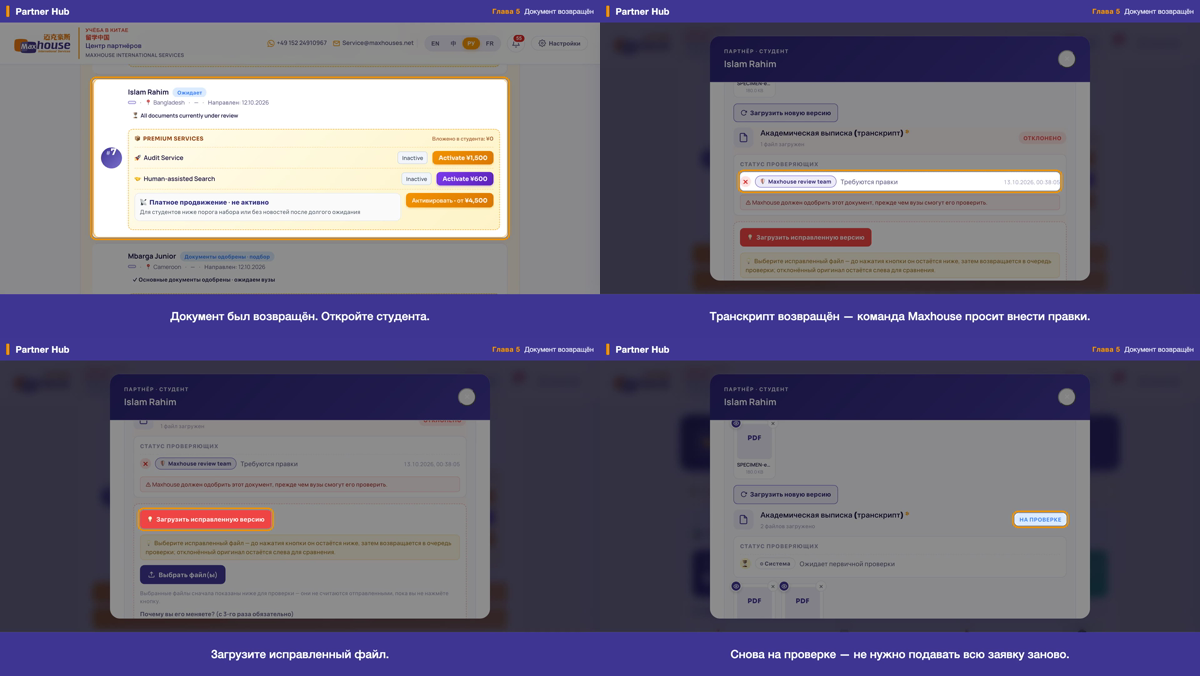
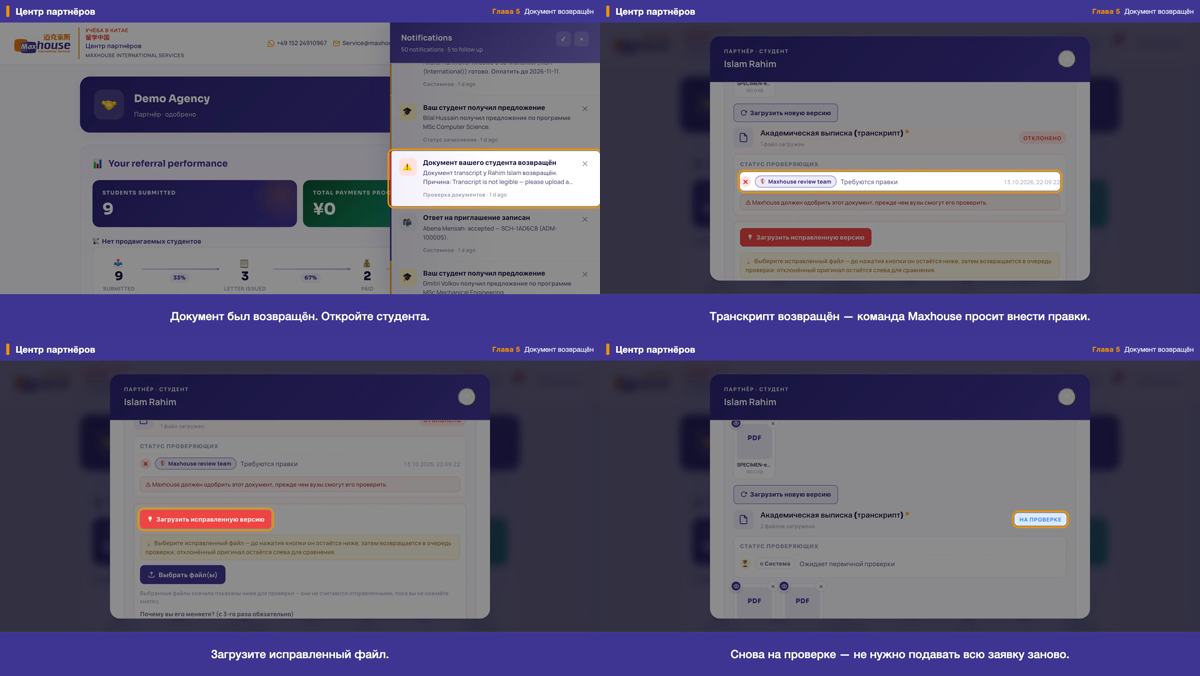
JOB-GP1 trip42: ch5 材料退回章四语横竖 v185 两态定版重录 — §三.2(a) 5-1 改从通知铃取镜(字幕不改·铃内退回通知标题四语本地化)+§三.7 去提额横幅+§一 ¥0+§三.9 俄法章节条。verify 开工收工均 17/17 PASS。四语 ch5 联络表更新(land+port)+PROGRESS+决定账(D-42-1)。⚠§十 留底疏漏已补救并记账(_v1 首版完好+第二版 full/trailer 复制 _v2)。下趟=ch6 v185 定版重录。

diff --git a/JOB-GP1-03-PROGRESS.md b/JOB-GP1-03-PROGRESS.md
@@ -1,4 +1,8 @@
-最后一趟：2026-10-13 22:00 第41趟 第三轮返工（RULING-20261013b-video-only）：**做了＝第〇节代码核验（partner-portal 与线上一致·无 v186·diff 空·index 指 v185）+ ch4 具名邀请章四语横竖 v185 定版重录，销 §一 负数金额**。ch4＝委托学生自传章（state 章 pt-04）；review1/review2 未标 ch4 字幕缺陷→字幕/高亮一字未改，纯按 §三.10「十章全部 v185 重录·不沿用旧录像」重录——第二版 trip36 对 ch4「照原版入拼」沿用 v184 旧录像，英文 4-4/4-5 委托卡「Invested ¥-3,000」负数即此漏。每变体录前 st-pt04-docs-full 置态（pt-04 delegate+必传材料 4/4+清 submitted_at）、rec v185（4-5 真 submit）、录后 st-pt04-reset-cleanup scoped 复位（清 intake_mode/submitted_at+删预置 transcript，不动 app_no=MH-EXET28，不跑 rebuild）。prod-ch 合成 8 片覆盖 dist→gp1-finish contact 四语联络表。**§一（核心）**：v185 重录后四语 4-4/4-5 页面「Invested/该学生已投入/Вложено/Investi ¥0」**无负数**（亲帧 EN f00215+f00298·ZH f00215·RU f00214·FR f00212）。**§三.7 N/A**：ch4 全 5 镜在工作台列表中段、不露 hero 顶部→无提额横幅（亲帧 EN 4-1 f00025），不需 quota-off。**§三.9**：俄法章节条 Центр партнёров/Espace partenaires（trip38 overlay 继承，联络表实帧亲验）。开工+收工 verify 均 **17/17 PASS 0 FAIL**。亲帧复验四语 land 4-1/4-4(+en 4-5)：委托卡环框、¥0 无负数、Submit 绿钮 4/4、无 beta/placeholder/test、双盲守住、no @gmail（演示邮箱 aizhan.demo@/agency.demo@example.com）、页头平台 WhatsApp/Email 不遮（D-14-3/D-15-1）、俄法委托卡英文回退 D-18-4 照录。时长 land en42.87/zh42.96/ru43.12/fr42.85·port en42.58/zh42.86/ru42.86/fr42.78s。第二版 ch4 成片留底 ~/guide/dist/partner/_v2/、dist 覆盖第三轮版。**下趟＝ch5（材料退回章·state 章 pt-03 两态；§三.2 5-1 字幕/取镜改对齐画面+§三.8 俄法引用按钮名+§一 ¥0+§三.7 露 hero 去横幅）**。GP-1 第三轮返工未收官。
+最后一趟：2026-10-13 23:55 第42趟 第三轮返工（RULING-20261013b-video-only）：**做了＝第〇节代码核验（partner-portal 与线上一致·无 v186·diff 空·index 指 v185）+ ch5 材料退回章（state 章 pt-03 两态）四语横竖 v185 定版重录，落 review2 §三.2(a)+§三.7+§一+§三.9**。**§三.2(a)（核心）**：旧 5-1 字幕「A document was returned」高亮的却是**列表卡**（显「awaiting platform review / All documents under review」，卡上不写退回）——对不上。侦查实证通知铃内有 urgent 退回通知、标题四语**真本地化**（你的学生有材料被退回 / Your student had a document returned / Документ вашего студента возвращён / Document de votre étudiant renvoyé）→ §三.2(a) 成立。故 5-1 改**从通知铃起、框住这条退回通知**，开学生交 5-2（其 pre 先关铃）；**字幕一字未改、不重配音**（铃标题与字幕同义）。录制层给产品漏挂类的滚动容器 `#stuNotifList` 补**产品自带** `.stu-notif-list` 类启用其本设计的滚动（产品面板滚动 bug 已记入 SUMMARY），+ preOff 把开铃/定位放镜外（§四.2 高亮占比 ~88%）。**§三.7**：land 5-1 露 hero→录前 st-ch8-quota-off 去「Quota raise pending 10→30」横幅、录后 restore（verify#13 回 pending）。**§一**：工作台 ¥0 无负数。**§三.8 N/A**：ch5 字幕无引号引用按钮名。**§三.9**：ru「Центр партнёров」/fr「Espace partenaires」（trip38 overlay 继承，成片帧亲验）。两态沿用 D-33-1（退回基线录 5-1/5-2/5-3 + st-pt03-reupload 录 5-4 真·审核中态，prod-ch --tags 拼 4 镜一章；5-4 徽章四语真本地化 REVIEWING/审核中/НА ПРОВЕРКЕ/EN EXAMEN，非伪造）。开工+收工 verify 均 **17/17 PASS 0 FAIL**。亲帧复验四语 land 5-1(铃+退回通知高亮·无横幅·¥0·STUDENTS 9)/5-4(审核中徽章)+en-port 5-1(全宽面板)：无 beta/placeholder/test/负数、双盲守住、no @gmail（MASK_INIT 遮）、页头平台 WhatsApp/Service@maxhouses.net 不遮（D-14-3/D-15-1）、俄法动态串 EN 回退 D-18-4 照录。时长 land en32.47/zh32.35/ru32.44/fr32.39·port en32.49/zh32.36/ru32.33/fr32.46s。**⚠§十 留底疏漏如实记账**：prod-ch 直写 dist，覆写前未单独 cp 第二版 ch5 章片到 _v2（6 片发现前已覆写）；补救＝_v1 首版 ch5 完好可回滚 + 第二版 ch5 内容仍存于当前 dist 第二版 full/trailer（trip36，本趟未重拼），已把 16 片 full/trailer 复制到 _v2 留底。**下趟＝ch6（§二 trip21 已执行完，本趟后按 §三.10 v185 定版重录四语横竖，复核 §一/§三.9）**。GP-1 第三轮返工未收官。
+
+> 【存档·第42趟 详节】开工 verify 17/17 PASS（#10 pt-03 rejected + #13 quota pending 基线在）。工具＝rec/_runch5.sh（每变体 quota-off→passA(5-1,5-2,5-3)→st-pt03-reupload→passB(5-4 --tagsuffix b)→reset→quota-restore 自成闭环）+ rec/_prodch5.sh（--tags 两态拼章）+ 侦查 _probe-ch5-bell/_probe-ch5-notif-langs + §四.5 _scan-ch5-forbidden（四语 beta/test/负数 0 命中）。改了(主仓库点名 JOB-GP1 不推)：rec/shots-v1.json(5-1 改铃取镜+preOff、5-2 pre 前置关铃)、REVIEW-{en,zh,ru,fr}-shots.md(追 ch5 第三轮节)、DECISIONS.md(D-42-1)、新增 5 脚本。captions-v1.json/产品码/迁移未改。四语 ch5 联络表 + 4 REVIEW-shots + 决定账 + PROGRESS 推 mh-jobs。详见 D-42-1。
+
+> 【存档·第41趟】最后一趟：2026-10-13 22:00 第41趟 第三轮返工（RULING-20261013b-video-only）：**做了＝第〇节代码核验（partner-portal 与线上一致·无 v186·diff 空·index 指 v185）+ ch4 具名邀请章四语横竖 v185 定版重录，销 §一 负数金额**。ch4＝委托学生自传章（state 章 pt-04）；review1/review2 未标 ch4 字幕缺陷→字幕/高亮一字未改，纯按 §三.10「十章全部 v185 重录·不沿用旧录像」重录——第二版 trip36 对 ch4「照原版入拼」沿用 v184 旧录像，英文 4-4/4-5 委托卡「Invested ¥-3,000」负数即此漏。每变体录前 st-pt04-docs-full 置态（pt-04 delegate+必传材料 4/4+清 submitted_at）、rec v185（4-5 真 submit）、录后 st-pt04-reset-cleanup scoped 复位（清 intake_mode/submitted_at+删预置 transcript，不动 app_no=MH-EXET28，不跑 rebuild）。prod-ch 合成 8 片覆盖 dist→gp1-finish contact 四语联络表。**§一（核心）**：v185 重录后四语 4-4/4-5 页面「Invested/该学生已投入/Вложено/Investi ¥0」**无负数**（亲帧 EN f00215+f00298·ZH f00215·RU f00214·FR f00212）。**§三.7 N/A**：ch4 全 5 镜在工作台列表中段、不露 hero 顶部→无提额横幅（亲帧 EN 4-1 f00025），不需 quota-off。**§三.9**：俄法章节条 Центр партнёров/Espace partenaires（trip38 overlay 继承，联络表实帧亲验）。开工+收工 verify 均 **17/17 PASS 0 FAIL**。亲帧复验四语 land 4-1/4-4(+en 4-5)：委托卡环框、¥0 无负数、Submit 绿钮 4/4、无 beta/placeholder/test、双盲守住、no @gmail（演示邮箱 aizhan.demo@/agency.demo@example.com）、页头平台 WhatsApp/Email 不遮（D-14-3/D-15-1）、俄法委托卡英文回退 D-18-4 照录。时长 land en42.87/zh42.96/ru43.12/fr42.85·port en42.58/zh42.86/ru42.86/fr42.78s。第二版 ch4 成片留底 ~/guide/dist/partner/_v2/、dist 覆盖第三轮版。**下趟＝ch5（材料退回章·state 章 pt-03 两态；§三.2 5-1 字幕/取镜改对齐画面+§三.8 俄法引用按钮名+§一 ¥0+§三.7 露 hero 去横幅）**。GP-1 第三轮返工未收官。
 > 【存档·第40趟】最后一趟：2026-10-13 第40趟 第三轮返工（RULING-20261013b-video-only）：**做了＝第〇节代码核验（partner-portal 与线上一致·无 v186·diff 空）+ ch3 四语横竖 v185 定版重录，落 review2 三处镜级缺陷**。§三.3：3-3 加 preOff→录制从「第二步·档案」起录，四语横竖整段停在出生日期/护照号字段并高亮（照英文样子，取代 v2 停在表单底的旧态）。§三.4：3-9 的 pre 在 loadMyReferrals 后轮询找名字含 Aisha 的卡打 data-mh39 标、hl 改 [data-mh39]→橙环框刚提交的 #10 Demo Aisha 整卡（取代旧 hl 框错的 #9 Serikova）。§三.8：主审 grep 实证 v185 外挂 i18n 包真值（ru=Направить нового студента / fr=Soumettre un nouveau référencement），改 captions 俄法 3-1 对齐按钮逐字（§四.4）、重 TTS。§三.7：录前 st-ch8-quota-off/录后 restore 去提额横幅。§一：3-9 Invested ¥0 无负数。state 章：每片 st-ch3-cleanup 起录+录后 st-ch3-mark-test+cleanup（scoped 单删 guide-pt-ch3+还原 pt-01 基线草稿，不跑 rebuild）。开工+收工 verify 均 **17/17 PASS 0 FAIL**。亲帧逐帧复验四语 land 3-1/3-3/3-9+ru-port 3-9+zh-port 3-3：按钮名逐字对、档案字段高亮、Demo Aisha #10 唯一框住、¥0 无负数、无 beta/test、双盲守住、no @gmail、页头平台联系方式不遮（D-14-3/D-15-1）、俄法英文回退 D-18-4 照录。时长 land en58.62/zh59.92/ru59.96/fr58.99·port en58.61/zh59.83/ru59.97/fr58.95s。第二版 ch3 成片留底 _v2/、dist 覆盖第三轮版。**下趟＝ch4（§三.10 v185 重录，亲验 §一 金额无负数——v2 对 ch4「照原版入拼」致英文 4-4/4-5「Invested ¥-3,000」负数）**。GP-1 第三轮返工未收官。
 > 【存档·第39趟】最后一趟：2026-10-13 第39趟 第三轮返工（RULING-20261013b-video-only）：**做了＝第〇节代码核验（partner-portal 与线上一致·无 v186·diff 空）+ ch1 §三.10 定版重录 + §三.7 去横幅 + §三.9 俄法章节条**。ch1 四语横竖 8 片用 v185 重录（不沿用旧录像）；1-8 露工作台顶部→录前 st-ch8-quota-off/录后 restore 去掉「Quota raise pending 10→30」横幅；俄法章节条左标签继承 trip38 已改 overlay（Центр партнёров/Espace partenaires）。ch1 字幕无缺陷纯重录（字幕/shots/captions/产品码一字未改）。开工+收工 verify 均 **17/17 PASS 0 FAIL**。亲眼逐帧：EN land 1-8 f00402+EN port 1-8 f00438（hero 橙框·¥0 无负数·无横幅·STUDENTS 9）+RU/FR land 章节条裁帧（Центр партнёров/Espace partenaires）；无 beta/test、双盲守住、no @gmail、页头平台联系方式不遮（D-14-3/D-15-1）、俄法 hero LL 英文回退 D-18-4 照录。第二版 ch1 成片留底 _v2/、dist 覆盖第三轮版。**下趟＝ch3（§三.3 ch3-3 中俄法档案字段高亮+§三.4 ch3-9 滚到 Demo Aisha 卡+§三.8 俄法 3-1 引用按钮名+§一 工作台；state 章需 st-ch3-cleanup/mark-test）**。GP-1 第三轮返工未收官。
 > 【存档·第38趟】最后一趟：2026-10-13 第38趟 第三轮返工（RULING-20261013b-video-only）：**做了＝第〇节放回代码核验（partner-portal 与线上一致·无 v186·diff 空）+ ch2 §三.1 重做**。2-3 高亮改框第一张学生卡整卡（原框计数药丸）；2-4 改为依次框 5 张不同真实阶段的卡状态行（nth1/4/5/6/8＝审核中/已通过匹配/新offer/已发通知书/录取完成·rec.mjs 新增 hlseq 多段高亮）+四语字幕重写重配音；§三.7 录前 st-ch8-quota-off/录后 restore 去掉工作台顶部提额横幅；§三.9 俄法章节条左标签改 Центр партнёров/Espace partenaires。四语横竖 8 片 v185 重录+重拼，开工+收工 verify 均 **17/17 PASS 0 FAIL**。亲眼逐帧复验 EN seg1-5/2-1/2-3+ZH seg3+RU/FR seg5：环框正确、无提额横幅、¥0 无负数、各 ¥ 正数、无 beta/test、双盲守住、no @gmail。第二版成片留底 _v2/、dist 覆盖第三轮版。**下趟＝ch1（§三.10 十章全部重录：四语横竖 v185 定版重录+§三.7 去横幅+§三.9 俄法章节条；ch1 字幕无缺陷纯重录）**。GP-1 第三轮返工未收官。

diff --git a/JOB-GP1-decisions.md b/JOB-GP1-decisions.md
@@ -726,3 +726,22 @@
 - **非四种停下情形**：全在成片/录制工装 + §0.3/§0.4 范围，不碰端口码/不越界/不碰 R2·CF·主仓库推送。
 - **改了**（主仓库，点名 JOB-GP1，不推）：`REVIEW-{en,zh,ru,fr}-shots.md`（追加 ch4 §三.10+§一 第三轮节）、`DECISIONS.md`、新增驱动脚本 `rec/_runch4.sh`/`rec/_prodch4.sh`。无 shots/captions/产品码/迁移改动（ch4 字幕无缺陷纯重录，§三.9 用 trip38 既有 overlay）。成片/voice 不入 git；ch4 第二版成片已留底 `~/guide/dist/partner/_v2/ch4-*.mp4`（8 片，同一文件只留一次），dist 覆盖为第三轮版（不入 git）。四语 ch4 联络表 + 4 REVIEW-shots + 决定账 + PROGRESS 推 mh-jobs。
 - **下趟**（§五 顺序）：ch5（材料退回章·state 章 pt-03 两态：退回基线录 5-1/5-2/5-3 + st-pt03-reupload 录 5-4 审核中态；§三.2 要求 5-1 字幕/取镜改——字幕「A document was returned. Open the student.」与画面「Submitted·awaiting platform review / All documents currently under review」对不上，按 §三.2 (a)通知铃有退回通知则从铃开始框并点开 / (b)否则字幕最小改成画面能证实的说法，退回由 5-2 REJECTED·Modification requested 承接——四语同步重配音；并 §三.8 俄法引用按钮名、§一 工作台 ¥0、§三.7 露 hero 的镜去横幅）。**GP-1 第三轮返工未收官**，后续 ch6→ch7(§三.5 7-4/§三.6)→ch8→ch9→ch10 逐章 v185 重录，再 OP 重做+重拼+十一项重审→才重写 SUMMARY-GP1。
+
+## D-42-1（返工第42趟 2026-10-13）· ch5 材料退回章（两态·pt-03）v185 四语横竖定版重录 · RULING-20261013b §三.2(a)+§三.7+§一+§三.9+§三.10
+- **第〇节代码核验**：`git diff origin/main --stat -- partner-portal` 空、partner-portal 下无未跟踪文件、无 v186、index 指向 v185 → 无需还原，本轮不改五端口代码。
+- **本趟＝ch5**（材料退回章，state 章，学生 guide-pt-03 = Islam Rahim）。两态机制沿用 D-33-1：退回基线录 5-1/5-2/5-3，apply `st-pt03-reupload` 录 5-4（审核中态，--tagsuffix b），`prod-ch --tags` 拼 4 镜一章。驱动 `rec/_runch5.sh`（每变体自成闭环）+ `rec/_prodch5.sh`。
+- **§三.2(a)（5-1 字幕/取镜改——本趟核心）**：review2 指出旧 5-1 字幕「A document was returned. Open the student.」与高亮的**列表卡**（显「Submitted · awaiting platform review」「⏳ All documents currently under review」，卡上不写退回）对不上。侦查（`_probe-ch5-bell.mjs`/`_probe-ch5-notif-langs.mjs`）实证：**通知铃内有一条 urgent 通知**，标题四语**真本地化**（en「Your student had a document returned」/ zh「你的学生有材料被退回」/ ru「Документ вашего студента возвращён」/ fr「Document de votre étudiant renvoyé」），desc「The transcript of Rahim Islam was returned. Reason: …」（理由 EN 回退＝D-18-4）→ **§三.2(a) 成立**（铃里确有这名学生的退回通知）。故 5-1 改为**从通知铃起、框住这条退回通知**（字幕一字不改、不重配音——铃内本地化标题与字幕同义「有材料被退回」），开学生详情交紧接的 5-2（其 pre 先 closeStuNotifPanel 再 viewReferredStudent）。改 `shots-v1.json` 的 5-1（pre/hl/waitFor/preOff）+ 5-2（pre 前置关铃）；capEN/capZH、captions-v1.json 文本**未改**。
+  - **录制层最小兜底（非改产品码·照 HIDE_INIT 先例）**：实测产品通知面板滚动容器 `#stuNotifList` **漏挂产品自带 CSS 类 `.stu-notif-list`**（该类定义了 `overflow-y:auto`），致面板不能滚动、第 9 条之后的通知（含本条 urgent 退回通知，位列约第 12）真实用户也看不到——产品 bug。5-1 的 pre 在**录制层**给 `#stuNotifList` 补挂产品自带的 `.stu-notif-list` 类（启用产品本就设计的滚动）并把这条真·通知滚到面板中央高亮。只补产品自带类、不改产品文件、不伪造/不隐藏任何真信息，与 HIDE_INIT 遮 beta 同性质。**此产品滚动 bug 写进 SUMMARY「留给业主的产品问题」**。
+  - **§四.2 节奏**：5-1 用 `preOff`（开铃+补类+定位滚动放镜外，不计入字幕窗，照 trip30 §三.8 preOff 先例）→ 镜内全程高亮通知，字幕窗 ~5.4s、高亮可见占比 ~88%（≥70%）。
+- **§三.7（提额横幅）**：land 的 5-1 露工作台顶部（铃面板右侧，hero 在左仍可见）。实证（`st-ch8-quota-off` 前）工作台顶 amber「Quota raise pending 10→30」横幅在 5-1 视口内 → 录前 `st-ch8-quota-off`（quota_requests 单列 pending→approved·decided_at NULL→产品清横幅）、录后 `st-ch8-quota-restore` 还原 pending。亲帧四语 land 5-1：header 与 hero 间无横幅。port 的 5-1 面板全宽、不露 hero，横幅本不可见；仍一并置态/复位无副作用。收工 verify #13 回 pending。
+- **§一（¥0 无负数）**：v185 重录后四语 land 5-1 工作台「TOTAL PAYMENTS PROCESSED / 累计处理付款金额 / ¥0」无负数（缺陷1 销账，亲帧 en/zh/ru/fr land 5-1）。
+- **§三.8（俄法引用按钮名）N/A**：ch5 四语字幕（5-1..5-4）均不含引号引用的按钮/标签名（§四.4 逐镜核零命中）→ 无需对齐改字幕。
+- **§三.9（俄法章节条）**：ru「Центр партнёров」/ fr「Espace partenaires」（trip38 已改 gp1-overlays.mjs，本趟重烧继承，ru/fr land 5-1 成片帧亲验章节条左标签已本地化）。zh「合作伙伴中心」/ en「Partner Hub」不在范围。
+- **§三.10（定版重录）**：ch5 整章四语横竖 8 变体用 v185 重录（两态·不沿用旧录像），prod-ch 合成 8 片覆盖 dist。5-4 审核中态靠产品自身 0104 supersede 真态化（非伪造），四语徽章真本地化：REVIEWING / 审核中 / НА ПРОВЕРКЕ / EN EXAMEN，矩阵「Awaiting initial review / 等待初步审核 / Ожидает первичной проверки / En attente de la première vérification」（亲帧 en/ru/fr land 5-4）。
+- **§四.5 整镜扫描**（`_scan-ch5-forbidden.mjs` 四语 + rec 每变体 @gmail 检）：beta/placeholder/test/内测/测试 与负数金额 **全 4 语 0 命中**；真邮箱——源 DOM 只含 guide-pt-04 测试种子账号（+tag 形态·非学生真邮箱），录制层 MASK_INIT 已遮（rec 8/8「no @gmail in DOM text」），成片不泄任何邮箱。页头平台 WhatsApp +49…/Service@maxhouses.net 不遮（D-14-3/D-15-1）。演示学生 Islam Rahim / 机构 Demo Agency 无真 PII；双盲守住（校名 A university / SCH- 代号，付费后公布）。
+- **时长（最终成片，秒）**：land en 32.47 / zh 32.35 / ru 32.44 / fr 32.39；port en 32.49 / zh 32.36 / ru 32.33 / fr 32.46。8 片全 res OK + audio yes + 4 镜 box 全 resolve（passA 3 + passB 1）。
+- **DB**：开工+收工 verify 均 **17/17 PASS 0 FAIL**，baseline 守住（每变体 scoped 置态/复位，无全量 rebuild，D-12-2）。写入/删除仅 §0.3/§0.4 范围（quota 单列往返 + pt-03 预置/删更正件 transcript 行，录后全复位：#10 pt-03 rejected、#13 quota pending）。
+- **⚠ §十 留底疏漏（如实记账）**：prod-ch 直接覆写 `~/guide/dist/partner/ch5-*.mp4`；本趟**未在覆写前把第二版（trip33）ch5 章片单独复制到 _v2/**（6 片 en/zh/ru land+port 在发现前已被覆写）。补救：①`_v1/` 首版 ch5 8 片完好（可回滚）；②第二版 ch5 内容仍完整存于当前 dist 第二版全片/速览（trip36，本趟未重拼），已把这 16 片 full/trailer **复制到 _v2/** 留底（含第二版 ch5 片段）。教训：prod-ch 直写 dist，覆写前必先 cp 该章 dist 成片到 _v2。
+- **非四种停下情形**：全在成片/录制工装 + §0.3/§0.4 范围，不碰端口码/不越界/不碰 R2·CF·主仓库推送。
+- **改了**（主仓库，点名 JOB-GP1，不推）：`rec/shots-v1.json`（5-1 改从铃取镜 + preOff、5-2 pre 前置关铃）、`REVIEW-{en,zh,ru,fr}-shots.md`（追加 ch5 第三轮节）、`DECISIONS.md`、新增 `rec/_runch5.sh`/`rec/_prodch5.sh`/`rec/_probe-ch5-bell.mjs`/`rec/_probe-ch5-notif-langs.mjs`/`rec/_scan-ch5-forbidden.mjs`。captions-v1.json/产品码/迁移**未改**（字幕一字未动）。成片/voice 不入 git；dist 覆盖为第三轮版。四语 ch5 联络表 + 4 REVIEW-shots + 决定账 + PROGRESS 推 mh-jobs。
+- **下趟**（§五 顺序）：ch6（§二 已 trip21 执行完——删 6-4/6-6 揭晓、改只读流程、beta 链接遮、速览镜单改；本趟后需按 §三.10 v185 定版重录 ch6 四语横竖，复核 §一 若有工作台背景/负数、§三.9 俄法章节条）。**GP-1 第三轮返工未收官**，后续 ch7(§三.5 7-4 只框状态行/§三.6)→ch8→ch9→ch10 逐章 v185 重录，再 OP 重做+重拼+十一项重审→才重写 SUMMARY-GP1。
